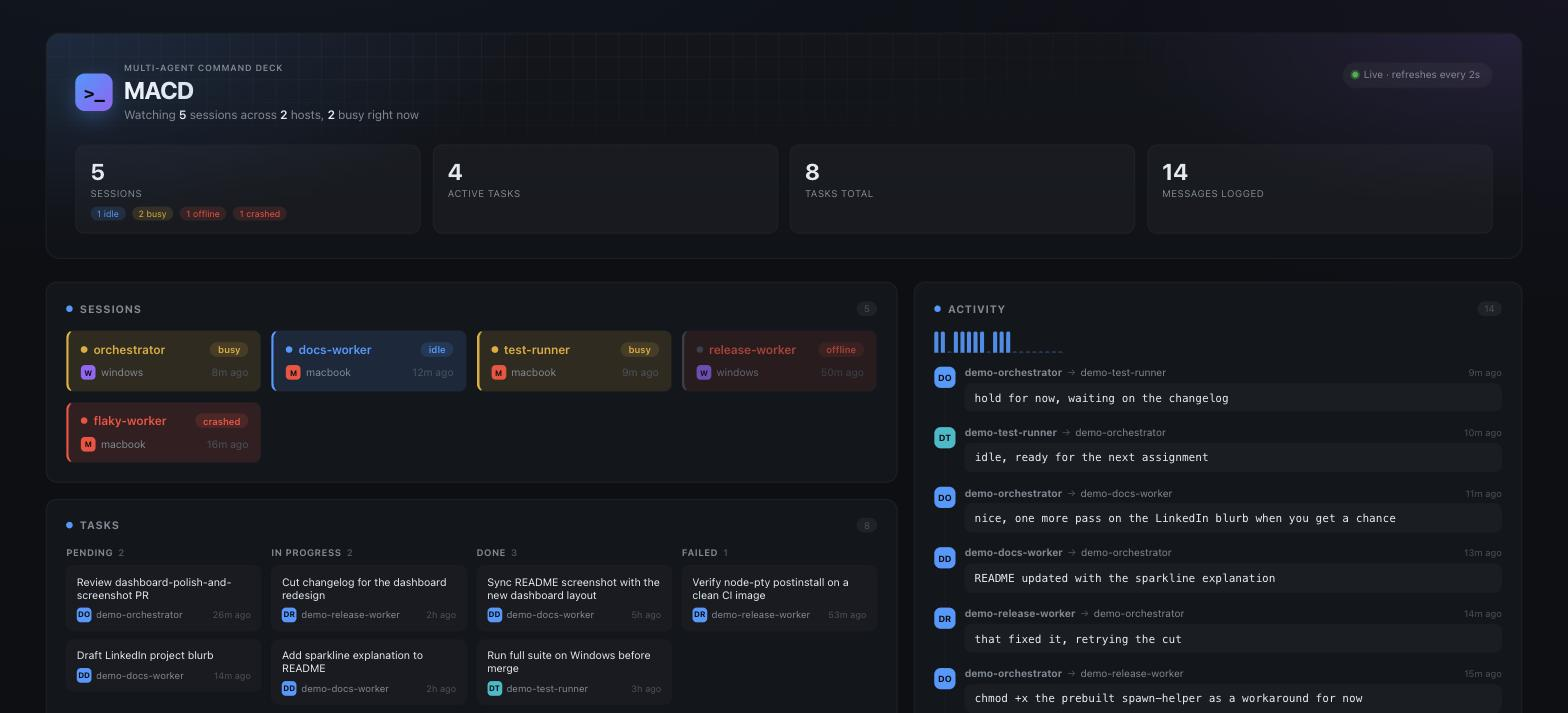
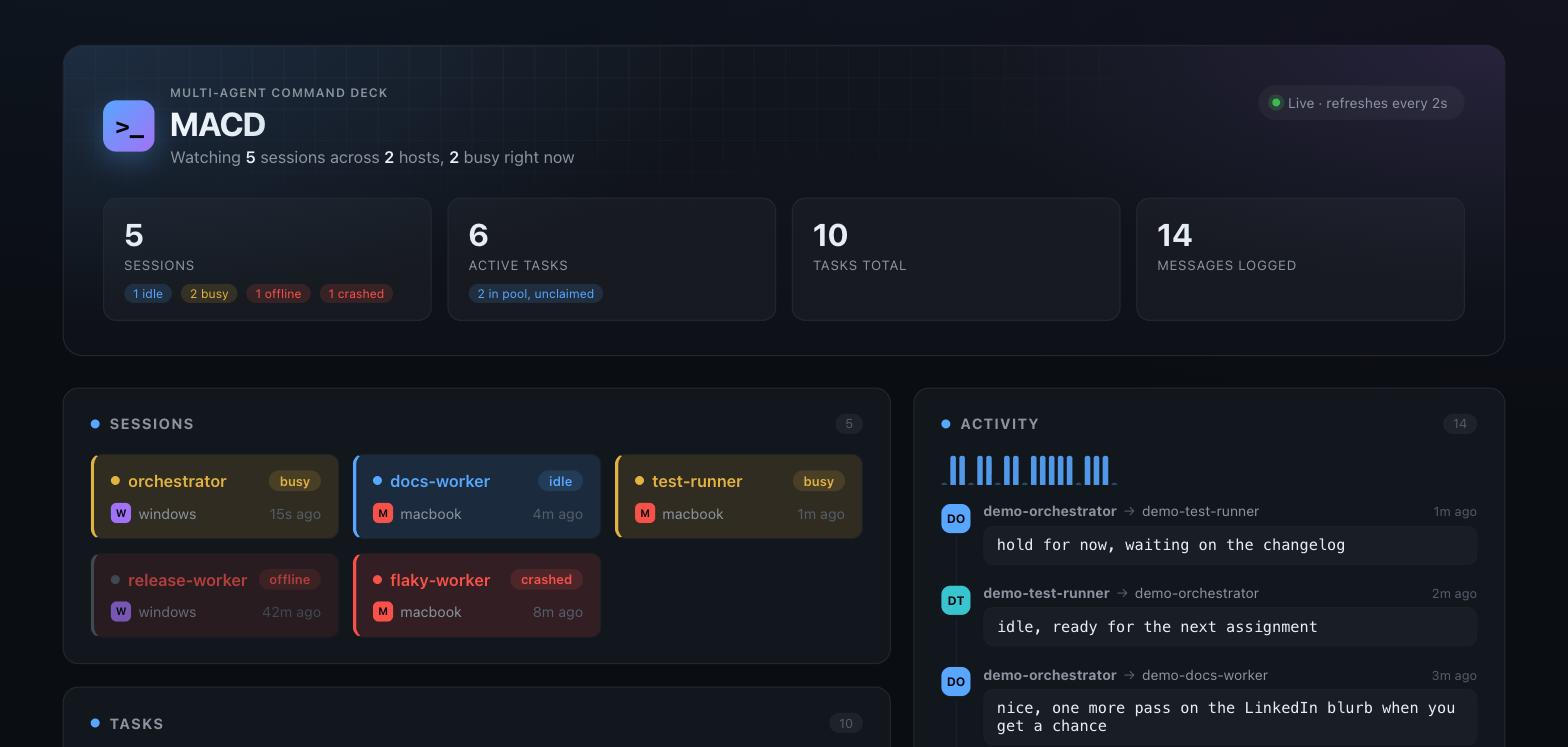
Regenerate dashboard screenshot and static demo with the task pool visible
Both were captured/exported before the pool chip and seeded pool
tasks existed. Regenerated against the current build so the README,
landing page, and interactive demo all show the same, current state.

Claude-Session: https://claude.ai/code/session_015gtan8umBLB2bXrHZVjcuP

diff --git a/docs/demo/index.html b/docs/demo/index.html
@@ -344,11 +344,14 @@ function renderSparkline(messages) {
   }
 }
 
+// Pool-counting logic mirrored in src/dashboard-logic.ts's countPooledTasks,
+// which has unit test coverage this inline copy can't get. Keep them in sync.
 function renderStats(sessions, tasks, messages) {
   const byStatus = (list, key) => list.reduce((acc, item) => { acc[item[key]] = (acc[item[key]] || 0) + 1; return acc; }, {});
   const sessionCounts = byStatus(sessions, "status");
   const taskCounts = byStatus(tasks, "status");
   const activeTasks = (taskCounts.pending || 0) + (taskCounts.in_progress || 0);
+  const pooled = tasks.filter((t) => t.status === "pending" && t.assignedTo === "unassigned").length;
 
   const cards = [
     {
@@ -356,7 +359,11 @@ function renderStats(sessions, tasks, messages) {
       value: sessions.length,
       breakdown: ["idle", "busy", "offline", "crashed"].filter((s) => sessionCounts[s]).map((s) => `<span class="chip ${s}">${sessionCounts[s]} ${s}</span>`).join(""),
     },
-    { label: "Active tasks", value: activeTasks, breakdown: "" },
+    {
+      label: "Active tasks",
+      value: activeTasks,
+      breakdown: pooled ? `<span class="chip pending">${pooled} in pool, unclaimed</span>` : "",
+    },
     { label: "Tasks total", value: tasks.length, breakdown: "" },
     { label: "Messages logged", value: messages.length, breakdown: "" },
   ];
